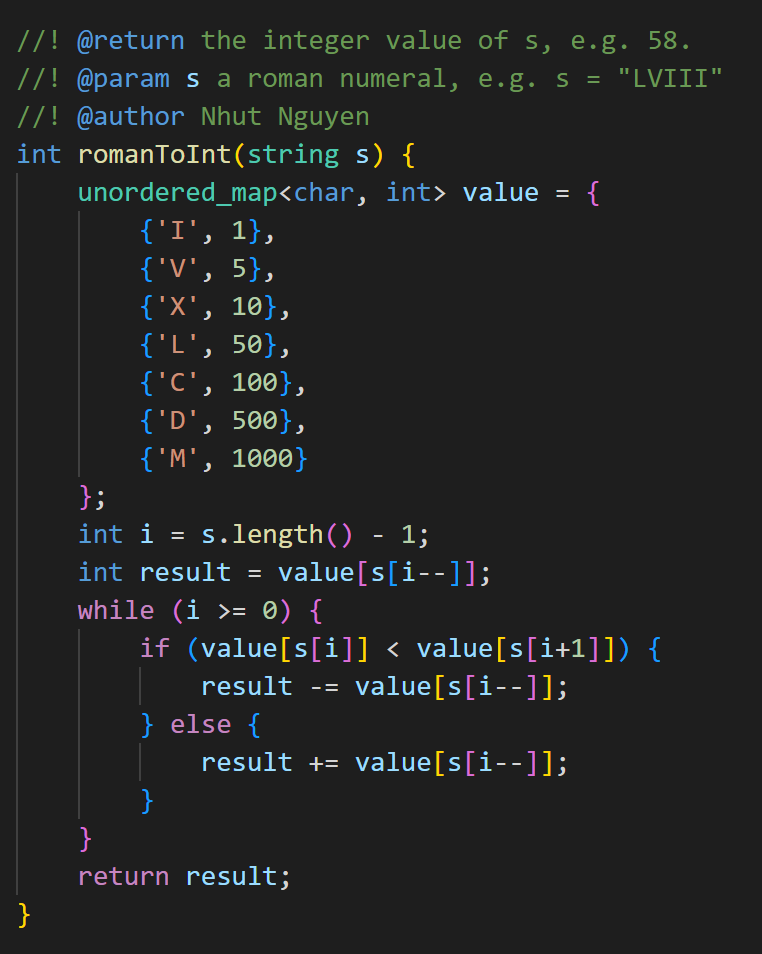
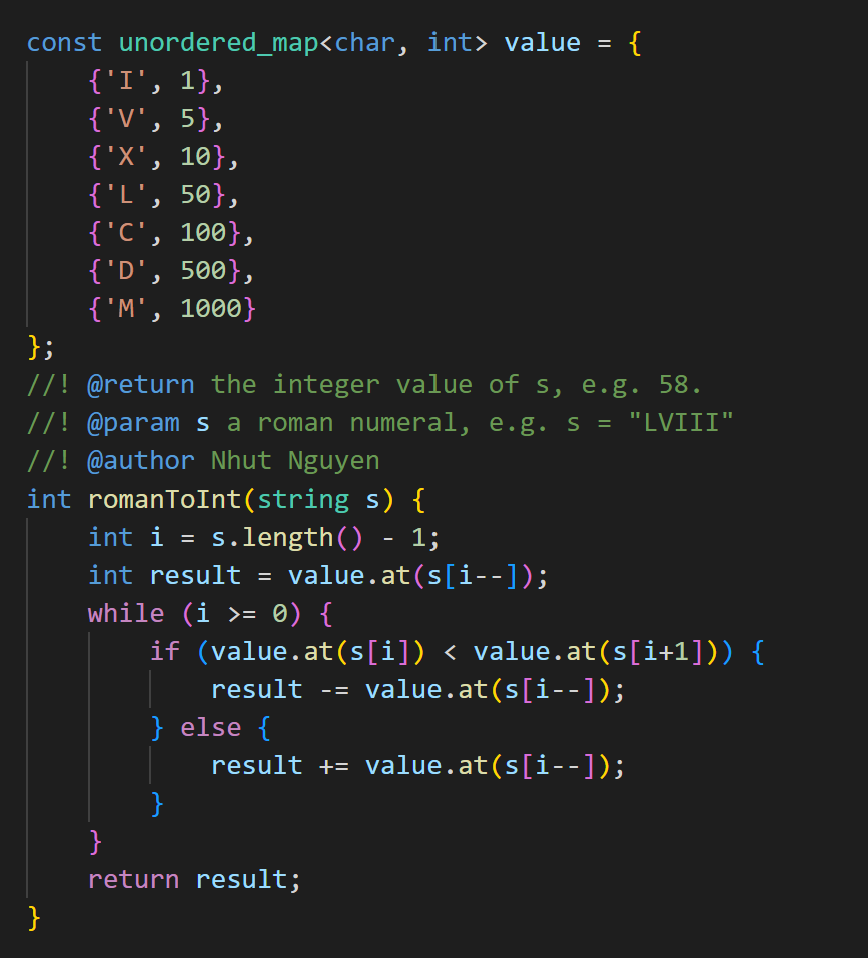
13. update screenshot

diff --git a/13. Roman to Integer/README.md b/13. Roman to Integer/README.md
@@ -146,7 +146,7 @@ Output:
 * Extra space: `O(1)`.
 
 ### C++ notes
-* Because the map `value` is unchanged, it should be `const`. Then you must use method `at()` to access its `const` values. See the notes of its operator [`[]`](https://en.cppreference.com/w/cpp/container/unordered_map/operator_at).
+* Because the map `value` is unchanged, it should be `const`. Then you must use method `at()` to access its `const` values (see the notes of its operator [`[]`](https://en.cppreference.com/w/cpp/container/unordered_map/operator_at)).
 
 ### Conclusion
 
